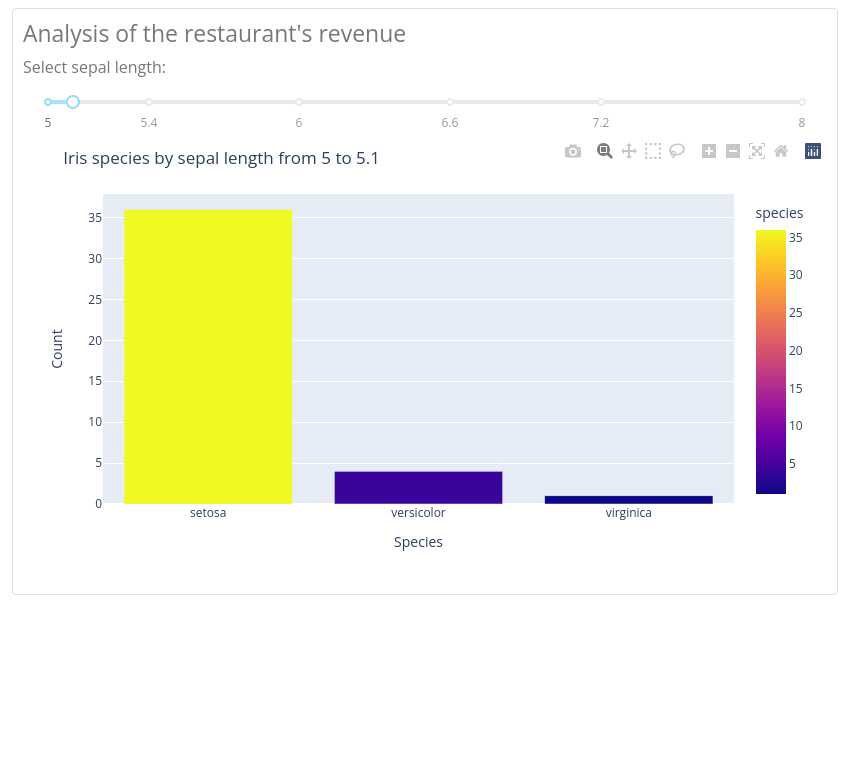
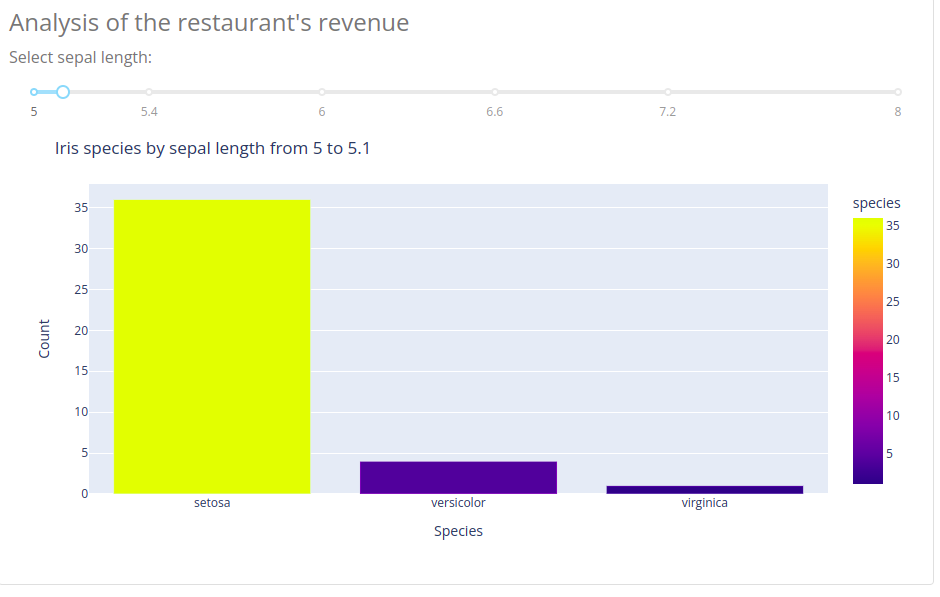
I've created app with scatter_mapbox and scatter_geo box  (#24)
* adding slider-plots app

* adding scatter and mapbox geo

diff --git a/pages/examples/planes_scatter_geo.py b/pages/examples/planes_scatter_geo.py
@@ -1,0 +1,42 @@
+from dash import Dash, dcc, html, Input, Output
+import plotly.express as px
+import pandas as pd 
+
+app = Dash(__name__)
+
+
+app.layout = html.Div(
+    [
+        html.H4("Airports"),
+        html.Plaintext("px.scatter_geo is used to plot points on globe across geolocations \nwhile px.scatter_map is used to plot points on map across geolocations."),
+        dcc.Graph(id="planes_scatter_geo-x-graph"),
+        html.P("Enter the type of graph you want to plot: (scatter_geo or scatter_mapbox)"),
+        dcc.Dropdown(
+            id="planes_scatter_geo-x-type",
+            options=["scatter_mapbox","scatter_geo"],
+            value="scatter_mapbox",
+            clearable=False,
+        ),
+    ]
+)
+
+
+@app.callback(
+    Output("planes_scatter_geo-x-graph", "figure"),
+    Input("planes_scatter_geo-x-type", "value"),
+)
+def generate_chart(values):
+    df_airports = pd.read_csv('https://raw.githubusercontent.com/plotly/datasets/master/2011_february_us_airport_traffic.csv')
+    if values == "scatter_geo":
+        # changing so that the default position will be US 
+        fig = px.scatter_geo(df_airports,locationmode = "USA-states",  lat="lat", lon="long",hover_data=["airport", "city", "state", "cnt"],color="cnt", color_continuous_scale=px.colors.cyclical.IceFire, projection="orthographic"  )
+        fig.update_layout(mapbox_style="open-street-map")
+        fig.update_layout(margin={"r":0,"t":0,"l":0,"b":0})
+    else: 
+        fig = px.scatter_mapbox(df_airports, lat = "lat" , lon = "long" , hover_data=["airport", "city", "state", "cnt"], size="cnt", color="cnt", zoom = 3 )
+        fig.update_layout(mapbox_style="open-street-map")
+    return fig
+
+
+if __name__ == "__main__":
+    app.run_server(debug=True)

diff --git a/pages/planes_scatter_geo.py b/pages/planes_scatter_geo.py
@@ -1,0 +1,12 @@
+import dash
+
+from utils.code_and_show import example_app
+
+
+dash.register_page(__name__, description="Dash Sample App")
+
+filename = __name__.split("pages.")[1]
+
+
+def layout():
+    return example_app(f"pages/examples/{filename}.py")
